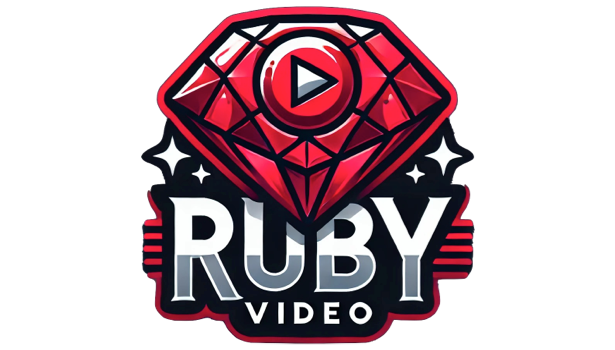
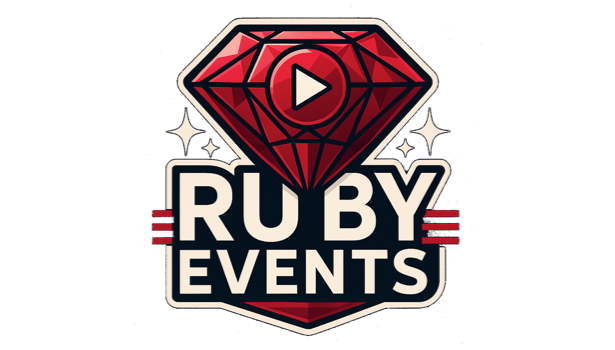
Rebrand to RubyEvents.org

diff --git a/app/helpers/application_helper.rb b/app/helpers/application_helper.rb
@@ -29,13 +29,13 @@ module ApplicationHelper
     output << "for the Ruby community by"
     output << link_to("@adrienpoly", "https://www.adrienpoly.com", target: "_blank", class: "link", alt: "Adrien Poly Ruby on Rails developer / CTO")
     output << "and wonderful"
-    output << link_to("contributors", "https://github.com/adrienpoly/rubyvideo/graphs/contributors", target: "_blank", class: "link")
+    output << link_to("contributors", "https://github.com/rubyevents/rubyevents/graphs/contributors", target: "_blank", class: "link")
     output << "using an"
     output << link_to("edge stack.", uses_path, class: "link")
     sanitize(output.join(" "), tags: %w[a span svg path], attributes: %w[href target class alt d xmlns viewBox fill])
   end
 
   def canonical_url
-    content_for?(:canonical_url) ? content_for(:canonical_url) : "https://www.rubyvideo.dev#{request.path}"
+    content_for?(:canonical_url) ? content_for(:canonical_url) : "https://www.rubyevents.org#{request.path}"
   end
 end

diff --git a/app/models/event.rb b/app/models/event.rb
@@ -179,7 +179,7 @@ class Event < ApplicationRecord
           alt: title
         },
         description: description,
-        site_name: "RubyVideo.dev"
+        site_name: "RubyEvents.org"
       },
       twitter: {
         card: "summary_large_image",
@@ -233,9 +233,9 @@ class Event < ApplicationRecord
   end
 
   def banner_background
-    static_metadata.banner_background.present? ? static_metadata.banner_background : "#DC153C"
+    static_metadata.banner_background.present? ? static_metadata.banner_background : "#081625"
   rescue => _e
-    "#DC153C"
+    "#081625"
   end
 
   def watchable_talks?

diff --git a/app/controllers/analytics/dashboards_controller.rb b/app/controllers/analytics/dashboards_controller.rb
@@ -26,7 +26,7 @@ class Analytics::DashboardsController < ApplicationController
     @top_referrers = Rails.cache.fetch("top_referrers", expires_at: Time.current.end_of_day) do
       Ahoy::Visit
         .where("date(started_at) BETWEEN ? AND ?", 60.days.ago.to_date, Date.yesterday)
-        .where.not(referring_domain: [nil, "", "rubyvideo.dev", "www.rubyvideo.dev"])
+        .where.not(referring_domain: [nil, "", "rubyvideo.dev", "www.rubyvideo.dev", "rubyevents.org", "www.rubyevents.org"])
         .group(:referring_domain)
         .order(Arel.sql("COUNT(*) DESC"))
         .limit(10)

diff --git a/app/models/talk.rb b/app/models/talk.rb
@@ -245,7 +245,7 @@ class Talk < ApplicationRecord
           alt: title
         },
         description: description,
-        site_name: "RubyVideo.dev"
+        site_name: "RubyEvents.org"
       },
       twitter: {
         card: "summary_large_image",
@@ -347,7 +347,7 @@ class Talk < ApplicationRecord
 
   def external_player_utm_params
     {
-      utm_source: "rubyvideo.dev",
+      utm_source: "rubyevents.org",
       utm_medium: "referral",
       utm_campaign: event.slug,
       utm_content: slug

diff --git a/app/controllers/sitemaps_controller.rb b/app/controllers/sitemaps_controller.rb
@@ -11,7 +11,7 @@ class SitemapsController < ApplicationController
     Rails.cache.fetch(["sitemap", Talk.all, Event.all, Speaker.all, Topic.approved], expires_in: 24.hours) do
       adapter = SitemapStringAdapter.new
 
-      SitemapGenerator::Sitemap.default_host = "https://www.rubyvideo.dev"
+      SitemapGenerator::Sitemap.default_host = "https://www.rubyevents.org"
 
       SitemapGenerator::Sitemap.create(adapter: adapter) do
         add talks_path, priority: 0.9, changefreq: "weekly"

diff --git a/app/clients/youtube/playlists.rb b/app/clients/youtube/playlists.rb
@@ -19,7 +19,7 @@ module Youtube
           videos_count: metadata.contentDetails.itemCount,
           metadata_parser: DEFAULT_METADATA_PARSER,
           slug: metadata.snippet.title.parameterize,
-          banner_background: "#DC153C",
+          banner_background: "#081625",
           featured_background: "#000000",
           featured_color: "#FFFFFF"
         })

diff --git a/app/controllers/concerns/metadata.rb b/app/controllers/concerns/metadata.rb
@@ -9,7 +9,7 @@ module Metadata
 
   def set_default_meta_tags
     set_meta_tags({
-      description: "On a mission to index all Ruby conferences. Your go-to place for talks and events about Ruby."
+      description: "On a mission to index all Ruby events. Your go-to place for talks and events about Ruby."
     })
   end
 end

diff --git a/config/initializers/avo.rb b/config/initializers/avo.rb
@@ -81,7 +81,7 @@ Avo.configure do |config|
   config.associations_lookup_list_limit = 10000
 
   ## == Customization ==
-  config.app_name = "RubyVideo"
+  config.app_name = "RubyEvents"
   # config.timezone = 'UTC'
   # config.currency = 'USD'
   # config.hide_layout_when_printing = false

diff --git a/scripts/dump_speakers.rb b/scripts/dump_speakers.rb
@@ -5,7 +5,7 @@ require "net/http"
 require "json"
 require "yaml"
 
-API_ENDPOINT = "https://www.rubyvideo.dev/speakers.json"
+API_ENDPOINT = "https://www.rubyevents.org/speakers.json"
 # API_ENDPOINT = "http://localhost:3000/speakers.json"
 OUTPUT_FILE = "data/speakers.yml"
 

diff --git a/app/models/speaker.rb b/app/models/speaker.rb
@@ -204,7 +204,7 @@ class Speaker < ApplicationRecord
           alt: name
         },
         description: meta_description,
-        site_name: "RubyVideo.dev"
+        site_name: "RubyEvents.org"
       },
       twitter: {
         card: "summary_large_image",

diff --git a/app/models/organisation.rb b/app/models/organisation.rb
@@ -81,7 +81,7 @@ class Organisation < ApplicationRecord
           alt: title
         },
         description: description,
-        site_name: "RubyVideo.dev"
+        site_name: "RubyEvents.org"
       },
       twitter: {
         card: "summary_large_image",

diff --git a/README.md b/README.md
@@ -1,6 +1,6 @@
-# RubyVideo.dev
+# RubyEvents.org
 
-[RubyVideo.dev](https://www.rubyvideo.dev), inspired by [pyvideo.org](https://pyvideo.org/), is designed to index all Ruby-related videos from conferences and meetups worldwide. At the time of writing, the project has about 4000 videos indexed from 175+ conferences and 2500+ speakers.
+[RubyEvents.org](https://www.rubyevents.org) (formerly RubyVideo.dev), inspired by [pyvideo.org](https://pyvideo.org/), is designed to index all Ruby-related events and videos from conferences and meetups around the world. At the time of writing, the project has 6000+ videos indexed from 200+ events and 3000+ speakers.
 
 Technically the project is built using the latest [Ruby](https://www.ruby-lang.org/) and [Rails](https://rubyonrails.org/) goodies such as [Hotwire](https://hotwired.dev/), [Solid Queue](https://github.com/rails/solid_queue), [Solid Cache](https://github.com/rails/solid_cache).
 
@@ -14,7 +14,7 @@ For compatible browsers it tries to demonstrate some of the possibilities of [Pa
 
 This project is open source, and contributions are greatly appreciated. One of the most direct ways to contribute at this time is by adding more content.
 
-We also have a page on the deployed site that has up-to-date information with the remaining known TODOs. Check out the ["Getting Started: Ways to Contribute" page on RubyVideo.dev](https://www.rubyvideo.dev/contributions) and feel free to start working on any of the remaining TODOs. Any help is greatly appreciated.
+We also have a page on the deployed site that has up-to-date information with the remaining known TODOs. Check out the ["Getting Started: Ways to Contribute" page on RubyEvents.org](https://www.rubyevents.org/contributions) and feel free to start working on any of the remaining TODOs. Any help is greatly appreciated.
 
 For more information on contributing conference data, please visit [this page](/docs/contributing.md).
 
@@ -43,7 +43,7 @@ You can use the `.env.sample` file as a guide for the environment variables requ
 
 ### Meilisearch
 
-[Rubyvideo.dev](https://www.rubyvideo.dev) search uses Meilisearch as a search engine.
+[RubyEvents.org](https://www.rubyevents.org) search uses Meilisearch as a search engine.
 
 To start the app, you need to have a Meilisearch service started. There is a Docker Compose available
 
@@ -89,4 +89,4 @@ Thank you [Appsignal](https://appsignal.com/r/eeab047472) for providing the APM 
 
 ## License
 
-Rubyvideo.dev is open source and available under the MIT License. For more information, please see the [License](/LICENSE.md) file.
+RubyEvents.org is open source and available under the MIT License. For more information, please see the [License](/LICENSE.md) file.
